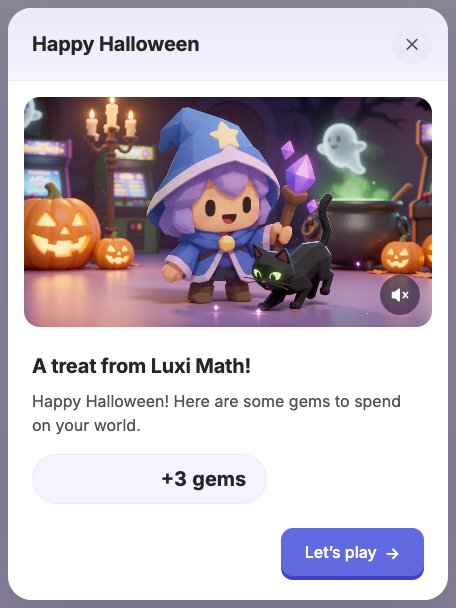
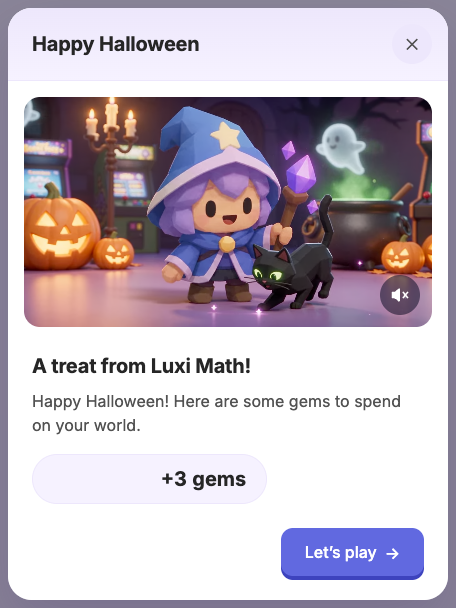
tokens: Luxi Math own tokens for Onboarding + Halloween promo chrome
Amy's rule (2026-10-20): Luxi elements use Datum SEMANTIC tokens directly,
never Datum COMPONENT tokens, and never raw primitives at a use site. Each
Luxi element gets its own --luxi-* token, defined once in :root.

- New block in index.css :root: "Luxi Math OWN tokens — onboarding + promo
  chrome": focus ring, modal header/close/back, stepper dots, 3D buttons
  (primary + secondary), reward chip, plus the off-ramp scrim / media
  placeholder / gem stage / video letterbox / sound-button overlay.
- Every value is unchanged: audits row-for-row identical (Onboarding 75,
  Promo 68, 0 fails); pixel diff vs before = 0 px on all static states.
- Use sites in Onboarding.jsx, PromoPopup.jsx and the .luxiOb-/.luxiPromo-
  CSS: 0 var(--color-component-*), 0 var(--brand-*), 0 var(--<hue>-NNN).

diff --git a/src/index.css b/src/index.css
@@ -89,6 +89,39 @@
   --luxi-color-component-basket-count-text: #FFFFFF; /* white, on brand-iris-600 = 5.81:1 */
   --luxi-color-component-basket-count-background: #4B54DD; /* brand-iris-600 */
 
+  /* Luxi Math OWN tokens — onboarding + promo chrome (Amy 2026-10-20)
+     Luxi elements never use Datum COMPONENT tokens (--color-component-*) or raw
+     primitives at the use site: Datum semantic tokens directly, else one of these. */
+  --luxi-color-focus-ring: #3D43BE; /* brand-iris-700 — the 1px house ring */
+  --luxi-color-component-modal-header-background-start: #EDE7FC; /* brand-lilac-100 */
+  --luxi-color-component-modal-header-background-end: #F6F2FF; /* brand-lilac-50 */
+  --luxi-color-component-modal-header-border: #EDE7FC; /* brand-lilac-100 */
+  --luxi-color-component-modal-close-background-default: #EDE7FC; /* brand-lilac-100 */
+  --luxi-color-component-modal-close-background-hover: #DDD1F7; /* brand-lilac-200 */
+  --luxi-color-component-modal-back-background-hover: #EDE7FC; /* brand-lilac-100 */
+  --luxi-color-component-stepper-dot-upcoming: #EDE7FC; /* brand-lilac-100 */
+  --luxi-color-component-stepper-dot-current: #4B54DD; /* brand-iris-600 */
+  --luxi-color-component-stepper-dot-done: #C6B4F0; /* brand-lilac-300 */
+  --luxi-color-component-button3d-primary-background: #6169E0; /* brand-iris-500 */
+  --luxi-color-component-button3d-primary-text: #FFFFFF; /* white */
+  --luxi-color-component-button3d-primary-shadow: #3D43BE; /* brand-iris-700 */
+  --luxi-color-component-button3d-secondary-background: #EDE7FC; /* brand-lilac-100 */
+  --luxi-color-component-button3d-secondary-background-hover: #DDD1F7; /* brand-lilac-200 */
+  --luxi-color-component-button3d-secondary-text: #262626; /* neutral-800 */
+  --luxi-color-component-button3d-secondary-shadow: #C6B4F0; /* brand-lilac-300 */
+  --luxi-color-component-reward-chip-background: #F6F2FF; /* brand-lilac-50 */
+  --luxi-color-component-reward-chip-border: #EDE7FC; /* brand-lilac-100 */
+  /* off-ramp values kept exactly as they render (no Datum step matches) — named so they live in one place */
+  --luxi-color-component-modal-scrim: rgba(29,23,48,.5); /* off-ramp ink #1D1730 @ 50% */
+  --luxi-color-component-media-placeholder-start: #EDE7FB; /* off-ramp, ≈ brand-lilac-100 */
+  --luxi-color-component-media-placeholder-end: #E3DBF7; /* off-ramp, between brand-lilac-100 and -200 */
+  --luxi-color-component-gem-stage-center: #F6F1FF; /* off-ramp, ≈ brand-lilac-50 */
+  --luxi-color-component-gem-stage-mid: #ECE4FB; /* off-ramp, ≈ brand-lilac-100 */
+  --luxi-color-component-gem-stage-edge: #E4D9F6; /* off-ramp, between brand-lilac-100 and -200 */
+  --luxi-color-component-video-letterbox: #2A2140; /* off-ramp, ≈ brand-lilac-950 */
+  --luxi-color-component-media-button-background: rgba(29,23,48,.6); /* off-ramp ink #1D1730 @ 60% — the sound button on the clip */
+  --luxi-color-component-media-button-background-hover: rgba(29,23,48,.8); /* off-ramp ink #1D1730 @ 80% */
+
   /* surfaces · borders · icons — the shared popup kit (mathkit), styling-v0.20 */
   --color-background-base: #FFFFFF; /* white */
   --color-background-subtle: #FAFAFA; /* neutral-50 */
@@ -466,20 +499,20 @@ a.doorApp:focus-visible { outline: 1px solid var(--brand-iris-700); outline-offs
 /* Layout (Linden, rebuilt 2026-10-18). The card rules are scoped to .luxiOb-frame so the Halloween promo (which reuses .luxiOb-card) keeps its own layout. Static only: NO transition or
    animation in this block — motion on these hooks is Fern's (see the header of
    Onboarding.jsx for the data-attr contract). */
-.luxiOb-scrim { position: fixed; inset: 0; z-index: 1000; display: flex; align-items: center; justify-content: center; padding: 20px; background: rgba(29,23,48,.5); -webkit-backdrop-filter: blur(2px); backdrop-filter: blur(2px); }
+.luxiOb-scrim { position: fixed; inset: 0; z-index: 1000; display: flex; align-items: center; justify-content: center; padding: 20px; background: var(--luxi-color-component-modal-scrim); -webkit-backdrop-filter: blur(2px); backdrop-filter: blur(2px); }
 .luxiOb-scrim[data-state="closing"] { pointer-events: none; }
 .luxiOb-frame { width: 100%; max-width: 440px; }
 .luxiOb-frame > .luxiOb-card { display: flex; flex-direction: column; width: 100%; max-height: calc(100vh - 40px); max-height: calc(100dvh - 40px); background: var(--color-background-base); border-radius: 24px; overflow: hidden; box-shadow: 0 24px 60px rgba(74,54,110,.22), inset 0 0 0 1px rgba(255,255,255,.6); font-family: 'Inter', system-ui, -apple-system, 'Segoe UI', Roboto, sans-serif; }
 .luxiOb-card:focus { outline: none; } /* focused on open so Tab starts inside + the title is announced; a container, not a control */
-.luxiOb-head { flex: none; display: flex; align-items: center; justify-content: space-between; gap: 12px; padding: 16px 16px 16px 24px; background: linear-gradient(180deg,var(--brand-lilac-100),var(--brand-lilac-50)); border-bottom: 1px solid var(--brand-lilac-100); }
+.luxiOb-head { flex: none; display: flex; align-items: center; justify-content: space-between; gap: 12px; padding: 16px 16px 16px 24px; background: linear-gradient(180deg,var(--luxi-color-component-modal-header-background-start),var(--luxi-color-component-modal-header-background-end)); border-bottom: 1px solid var(--luxi-color-component-modal-header-border); }
 /* the only part that scrolls (phone landscape): header + footer stay put */
 .luxiOb-scroll { flex: 1 1 auto; min-height: 0; overflow-y: auto; overscroll-behavior: contain; -webkit-overflow-scrolling: touch; }
 .luxiOb-foot { flex: none; display: flex; align-items: center; justify-content: space-between; gap: 12px; padding: 16px 24px 24px; }
 /* ONE fixed 16:9 box; its lilac IS the calm placeholder for a media:null step */
-.luxiOb-mediaBox { position: relative; width: 100%; aspect-ratio: 16 / 9; border-radius: 16px; overflow: hidden; background: linear-gradient(150deg,#EDE7FB,#E3DBF7); box-shadow: inset 0 0 0 1px rgba(255,255,255,.5); }
+.luxiOb-mediaBox { position: relative; width: 100%; aspect-ratio: 16 / 9; border-radius: 16px; overflow: hidden; background: linear-gradient(150deg,var(--luxi-color-component-media-placeholder-start),var(--luxi-color-component-media-placeholder-end)); box-shadow: inset 0 0 0 1px rgba(255,255,255,.5); }
 .luxiOb-media { position: absolute; inset: 0; display: block; width: 100%; height: 100%; object-fit: cover; opacity: 0; }
 .luxiOb-media[data-active="true"] { opacity: 1; }
-.luxiOb-stage { display: flex; align-items: center; justify-content: center; background: radial-gradient(120% 100% at 50% 30%, #F6F1FF 0%, #ECE4FB 62%, #E4D9F6 100%); }
+.luxiOb-stage { display: flex; align-items: center; justify-content: center; background: radial-gradient(120% 100% at 50% 30%, var(--luxi-color-component-gem-stage-center) 0%, var(--luxi-color-component-gem-stage-mid) 62%, var(--luxi-color-component-gem-stage-edge) 100%); }
 /* every page's text stacked in one cell → the block is as tall as the tallest */
 .luxiOb-pages { display: grid; padding: 24px 24px 0; }
 .luxiOb-page { grid-area: 1 / 1; opacity: 0; }
@@ -491,9 +524,9 @@ a.doorApp:focus-visible { outline: 1px solid var(--brand-iris-700); outline-offs
 .luxiOb-small { margin: 16px 0 0; font-size: 14px; font-weight: 400; color: var(--color-text-secondary); line-height: 1.5; text-wrap: pretty; }
 /* dots: the slot keeps its 8px height on About (no dots) so nothing moves */
 .luxiOb-dots { display: flex; gap: 8px; align-items: center; justify-content: center; height: 8px; padding: 24px 24px 0; box-sizing: content-box; }
-.luxiOb-dot { height: 8px; width: 8px; border-radius: 99px; background: var(--brand-lilac-100); }
-.luxiOb-dot[data-state="current"] { width: 24px; background: var(--brand-iris-600); }
-.luxiOb-dot[data-state="past"] { background: var(--brand-lilac-300); }
+.luxiOb-dot { height: 8px; width: 8px; border-radius: 99px; background: var(--luxi-color-component-stepper-dot-upcoming); }
+.luxiOb-dot[data-state="current"] { width: 24px; background: var(--luxi-color-component-stepper-dot-current); }
+.luxiOb-dot[data-state="past"] { background: var(--luxi-color-component-stepper-dot-done); }
 /* Short screens (phone landscape 812×375): a 230-tall image would fill the whole
    scroll area and hide the words, so the box shrinks to 96 tall (still 16:9,
    centred) and the title starts in view; the rest scrolls under a fixed ✕. */
@@ -572,30 +605,30 @@ a.doorApp:focus-visible { outline: 1px solid var(--brand-iris-700); outline-offs
   .luxiOb-twinkle { animation: none; opacity: .8; }
 }
 /* header close / back control */
-.luxiOb-close { width: 40px; height: 40px; border: 0; border-radius: 50%; background: var(--color-background-brand-subtle); color: var(--color-icon-secondary); display: flex; align-items: center; justify-content: center; cursor: pointer; flex: none; transition: background .15s ease; }
-.luxiOb-close:hover { background: var(--brand-lilac-200); }
+.luxiOb-close { width: 40px; height: 40px; border: 0; border-radius: 50%; background: var(--luxi-color-component-modal-close-background-default); color: var(--color-icon-secondary); display: flex; align-items: center; justify-content: center; cursor: pointer; flex: none; transition: background .15s ease; }
+.luxiOb-close:hover { background: var(--luxi-color-component-modal-close-background-hover); }
 /* footer "Back" (ghost button) */
 .luxiOb-back { background: transparent; color: var(--color-text-secondary); font-size: 16px; font-weight: 500; line-height: 24px; padding: 12px 16px; border: 0; border-radius: 12px; cursor: pointer; transition: background .15s ease, color .15s ease; }
-.luxiOb-back:hover { background: var(--color-component-button-ghost-background-hover); color: var(--color-text-primary); }
+.luxiOb-back:hover { background: var(--luxi-color-component-modal-back-background-hover); color: var(--color-text-primary); }
 /* footer primary — "Next" and the final CTA share this look (padding set inline) */
-.luxiOb-cta { padding: 12px 24px; line-height: 24px; display: inline-flex; align-items: center; justify-content: center; gap: 8px; background: var(--brand-iris-500); color: var(--color-text-on-brand); font-size: 16px; font-weight: 500; border: 0; border-radius: 12px; box-shadow: 0 4px 0 var(--brand-iris-700); cursor: pointer; transition: transform .08s ease, box-shadow .08s ease, filter .08s ease; }
+.luxiOb-cta { padding: 12px 24px; line-height: 24px; display: inline-flex; align-items: center; justify-content: center; gap: 8px; background: var(--luxi-color-component-button3d-primary-background); color: var(--luxi-color-component-button3d-primary-text); font-size: 16px; font-weight: 500; border: 0; border-radius: 12px; box-shadow: 0 4px 0 var(--luxi-color-component-button3d-primary-shadow); cursor: pointer; transition: transform .08s ease, box-shadow .08s ease, filter .08s ease; }
 .luxiOb-cta:hover { filter: brightness(1.04); }
 /* House focus ring: 1px Iris 700, 2px out (the [role="dialog"] rule below already won on specificity — this just says the same thing). */
-.luxiOb-close:focus-visible, .luxiOb-back:focus-visible, .luxiOb-cta:focus-visible { outline: 1px solid var(--brand-iris-700); outline-offset: 2px; }
-.luxiOb-cta:active { transform: translateY(4px); box-shadow: 0 0 0 var(--brand-iris-700); }
+.luxiOb-close:focus-visible, .luxiOb-back:focus-visible, .luxiOb-cta:focus-visible { outline: 1px solid var(--luxi-color-focus-ring); outline-offset: 2px; }
+.luxiOb-cta:active { transform: translateY(4px); box-shadow: 0 0 0 var(--luxi-color-component-button3d-primary-shadow); }
 
 /* ── Seasonal promo popup (src/ui/PromoPopup.jsx, 2026-10-15) ──
    Chrome is .luxiOb-*; these are only its new pieces. Interactive states here,
    not inline (inline beats :hover). 4px grid; press = the governed 4px snap. */
-.luxiPromo-sound { position: absolute; right: 12px; bottom: 12px; width: 40px; height: 40px; border: 0; border-radius: 50%; background: rgba(29,23,48,.6); color: var(--color-text-inverse); display: flex; align-items: center; justify-content: center; cursor: pointer; transition: background .15s ease; }
-.luxiPromo-sound:hover { background: rgba(29,23,48,.8); }
-.luxiPromo-pick:focus-visible, .luxiPromo-treat:focus-visible { outline: 1px solid var(--brand-iris-700); outline-offset: 2px; }
+.luxiPromo-sound { position: absolute; right: 12px; bottom: 12px; width: 40px; height: 40px; border: 0; border-radius: 50%; background: var(--luxi-color-component-media-button-background); color: var(--color-text-inverse); display: flex; align-items: center; justify-content: center; cursor: pointer; transition: background .15s ease; }
+.luxiPromo-sound:hover { background: var(--luxi-color-component-media-button-background-hover); }
+.luxiPromo-pick:focus-visible, .luxiPromo-treat:focus-visible { outline: 1px solid var(--luxi-color-focus-ring); outline-offset: 2px; }
 /* The sound button sits ON the clip, so an Iris 700 ring alone vanishes into the dark video (2.12:1, contrast audit 2026-10-20).
    Same house ring, plus a white 2px halo filling the gap: the white reads on any frame, the Iris ring on the white. */
-[role="dialog"] .luxiPromo-sound:focus-visible { outline: 1px solid var(--brand-iris-700); outline-offset: 2px; box-shadow: 0 0 0 3px var(--color-text-inverse); }
-.luxiPromo-pick { display: inline-flex; align-items: center; justify-content: center; gap: 8px; flex: 1; padding: 12px 24px; background: var(--color-component-button-secondary-background-default); color: var(--color-text-primary); font-size: 16px; font-weight: 500; border: 0; border-radius: 12px; box-shadow: 0 4px 0 var(--brand-lilac-300); cursor: pointer; transition: transform .08s ease, box-shadow .08s ease, background .15s ease; }
-.luxiPromo-pick:hover { background: var(--color-component-button-secondary-background-hover); }
-.luxiPromo-pick:active { transform: translateY(4px); box-shadow: 0 0 0 var(--brand-lilac-300); }
+[role="dialog"] .luxiPromo-sound:focus-visible { outline: 1px solid var(--luxi-color-focus-ring); outline-offset: 2px; box-shadow: 0 0 0 3px var(--color-text-inverse); }
+.luxiPromo-pick { display: inline-flex; align-items: center; justify-content: center; gap: 8px; flex: 1; padding: 12px 24px; background: var(--luxi-color-component-button3d-secondary-background); color: var(--luxi-color-component-button3d-secondary-text); font-size: 16px; font-weight: 500; border: 0; border-radius: 12px; box-shadow: 0 4px 0 var(--luxi-color-component-button3d-secondary-shadow); cursor: pointer; transition: transform .08s ease, box-shadow .08s ease, background .15s ease; }
+.luxiPromo-pick:hover { background: var(--luxi-color-component-button3d-secondary-background-hover); }
+.luxiPromo-pick:active { transform: translateY(4px); box-shadow: 0 0 0 var(--luxi-color-component-button3d-secondary-shadow); }
 .luxiPromo-treat { flex: 1; }
 /* The treat (first-and-only view = the delight budget, so it goes BIG).
    CSS keyframes, not JS: the Door's R3F hero renders underneath, and CSS stays

diff --git a/src/ui/PromoPopup.jsx b/src/ui/PromoPopup.jsx
@@ -156,7 +156,7 @@ export default function PromoPopup({ promo = PROMO, onClose }) {
       className="luxiOb-scrim"
       onPointerDown={(e) => e.stopPropagation()} // never fall through to the R3F canvas
       onClick={onClose}
-      style={{ position: 'fixed', inset: 0, zIndex: 1000, background: 'rgba(29,23,48,.5)', backdropFilter: 'blur(2px)', WebkitBackdropFilter: 'blur(2px)', display: 'flex', alignItems: 'center', justifyContent: 'center', padding: 20 }}
+      style={{ position: 'fixed', inset: 0, zIndex: 1000, background: 'var(--luxi-color-component-modal-scrim)', backdropFilter: 'blur(2px)', WebkitBackdropFilter: 'blur(2px)', display: 'flex', alignItems: 'center', justifyContent: 'center', padding: 20 }}
     >
       <div
         ref={cardRef}
@@ -169,14 +169,14 @@ export default function PromoPopup({ promo = PROMO, onClose }) {
         style={{ fontFamily: "'Inter', system-ui, -apple-system, 'Segoe UI', Roboto, sans-serif", width: '100%', maxWidth: 440, background: 'var(--color-background-base)', borderRadius: 24, overflow: 'hidden', boxShadow: '0 24px 60px rgba(74,54,110,.22), inset 0 0 0 1px rgba(255,255,255,.6)' }}
       >
         {/* Header — same chrome as Onboarding: title + ✕ on the right */}
-        <div style={{ padding: '16px 16px 16px 24px', background: 'linear-gradient(180deg,var(--brand-lilac-100),var(--brand-lilac-50))', borderBottom: '1px solid var(--brand-lilac-100)', display: 'flex', alignItems: 'center', justifyContent: 'space-between', gap: 12 }}>
+        <div style={{ padding: '16px 16px 16px 24px', background: 'linear-gradient(180deg,var(--luxi-color-component-modal-header-background-start),var(--luxi-color-component-modal-header-background-end))', borderBottom: '1px solid var(--luxi-color-component-modal-header-border)', display: 'flex', alignItems: 'center', justifyContent: 'space-between', gap: 12 }}>
           <span style={{ fontSize: 20, fontWeight: 700, color: 'var(--color-text-primary)', letterSpacing: '-.01em' }}>Happy Halloween</span>
           <button className="luxiOb-close" aria-label="Close" onClick={onClose} style={{ fontSize: 16, lineHeight: 1 }}>✕</button>
         </div>
 
         {/* The clip — 16:9 stage, same box as Onboarding's step media */}
         <div style={{ padding: '16px 16px 0' }}>
-          <div style={{ position: 'relative', width: '100%', aspectRatio: '16 / 9', borderRadius: 16, overflow: 'hidden', background: '#2A2140' }}>
+          <div style={{ position: 'relative', width: '100%', aspectRatio: '16 / 9', borderRadius: 16, overflow: 'hidden', background: 'var(--luxi-color-component-video-letterbox)' }}>
             <video
               ref={videoRef}
               autoPlay={!reduceMotion}
@@ -213,7 +213,7 @@ export default function PromoPopup({ promo = PROMO, onClose }) {
             // The chip the burst lands in: one gem per gem earned drops in,
             // tumbles and settles (staggered) with a twinkle; the number ticks
             // up +1 as each lands and pops. Motion: index.css .luxiPromo-*.
-            <div className="luxiPromo-gift" style={{ animationDelay: reduceMotion ? '0ms' : `${CHIP_START - 150}ms`, marginTop: 16, display: 'inline-flex', alignItems: 'center', gap: 12, padding: '8px 20px 8px 12px', borderRadius: 999, background: 'var(--brand-lilac-50)', border: '1px solid var(--brand-lilac-100)' }}>
+            <div className="luxiPromo-gift" style={{ animationDelay: reduceMotion ? '0ms' : `${CHIP_START - 150}ms`, marginTop: 16, display: 'inline-flex', alignItems: 'center', gap: 12, padding: '8px 20px 8px 12px', borderRadius: 999, background: 'var(--luxi-color-component-reward-chip-background)', border: '1px solid var(--luxi-color-component-reward-chip-border)' }}>
               <span style={{ display: 'inline-flex', gap: 4 }} aria-hidden="true">
                 {Array.from({ length: promo.gems }, (_, i) => (
                   <span key={i} className="luxiPromo-gem" style={{ animationDelay: `${chipDelay(i)}ms` }}>

diff --git a/a11y-reports/promo-popup/report.md b/a11y-reports/promo-popup/report.md
@@ -1,6 +1,6 @@
 # Contrast audit — PromoPopup
 
-**Standard:** WCAG 2.2 AA · **Source:** `src/ui/PromoPopup.jsx` · **Run:** 2026-10-21 00:59 UTC  
+**Standard:** WCAG 2.2 AA · **Source:** `src/ui/PromoPopup.jsx` · **Run:** 2026-10-21 03:01 UTC  
 **Variants:** Reduced motion (poster + controls), Motion on (sound button) · **Phases:** pick → trick → treat → sound-off → sound-on → after-pick
 
 > **68 unique checks · 64 pass · 0 fail · 0 exempt (disabled) · 0 need review**
@@ -66,10 +66,10 @@ None — every check passes WCAG 2.2 AA. 🎉
 | Element | Default | Hover | Pressed | Focus (text) | Focus indicator | Seen in |
 |---|---|---|---|---|---|---|
 | Close | ✅ 6.49:1 | ✅ 5.41:1 | ✅ 5.41:1 | ✅ 6.49:1 | ✅ 3.72:1 · 70% of edge | sound-off, sound-on, after-pick |
-| Turn sound on | — | — | — | — | ✅ 3.22:1 · 69% of edge | sound-off, after-pick |
+| Turn sound on | — | — | — | — | ✅ 3.23:1 · 85% of edge | sound-off, after-pick |
 | Trick | ✅ 12.56:1 | ✅ 10.47:1 | ✅ 10.47:1 | ✅ 12.56:1 | ✅ 6.49:1 · 92% of edge | sound-off, sound-on |
 | Treat | ✅ 4.55:1 | ✅ 4.55:1 | ✅ 4.55:1 | ✅ 4.55:1 | ✅ 6.49:1 · 55% of edge | sound-off, sound-on |
-| Turn sound off | — | — | — | — | ✅ 3.17:1 · 59% of edge | sound-on |
+| Turn sound off | — | — | — | — | ✅ 3.21:1 · 59% of edge | sound-on |
 | Let’s play → | ✅ 4.55:1 | ✅ 4.55:1 | ✅ 4.55:1 | ✅ 4.55:1 | ✅ 4.73:1 · 57% of edge | after-pick |
 
 ---

diff --git a/a11y-reports/onboarding/report.md b/a11y-reports/onboarding/report.md
@@ -1,6 +1,6 @@
 # Contrast audit — Onboarding
 
-**Standard:** WCAG 2.2 AA · **Source:** `src/ui/Onboarding.jsx` · **Run:** 2026-10-21 00:59 UTC  
+**Standard:** WCAG 2.2 AA · **Source:** `src/ui/Onboarding.jsx` · **Run:** 2026-10-21 03:00 UTC  
 **Variants:** First run (About + steps), Settings → How to Play · **Phases:** about → step-1 → step-2 → step-3
 
 > **75 unique checks · 71 pass · 0 fail · 0 exempt (disabled) · 0 need review**
